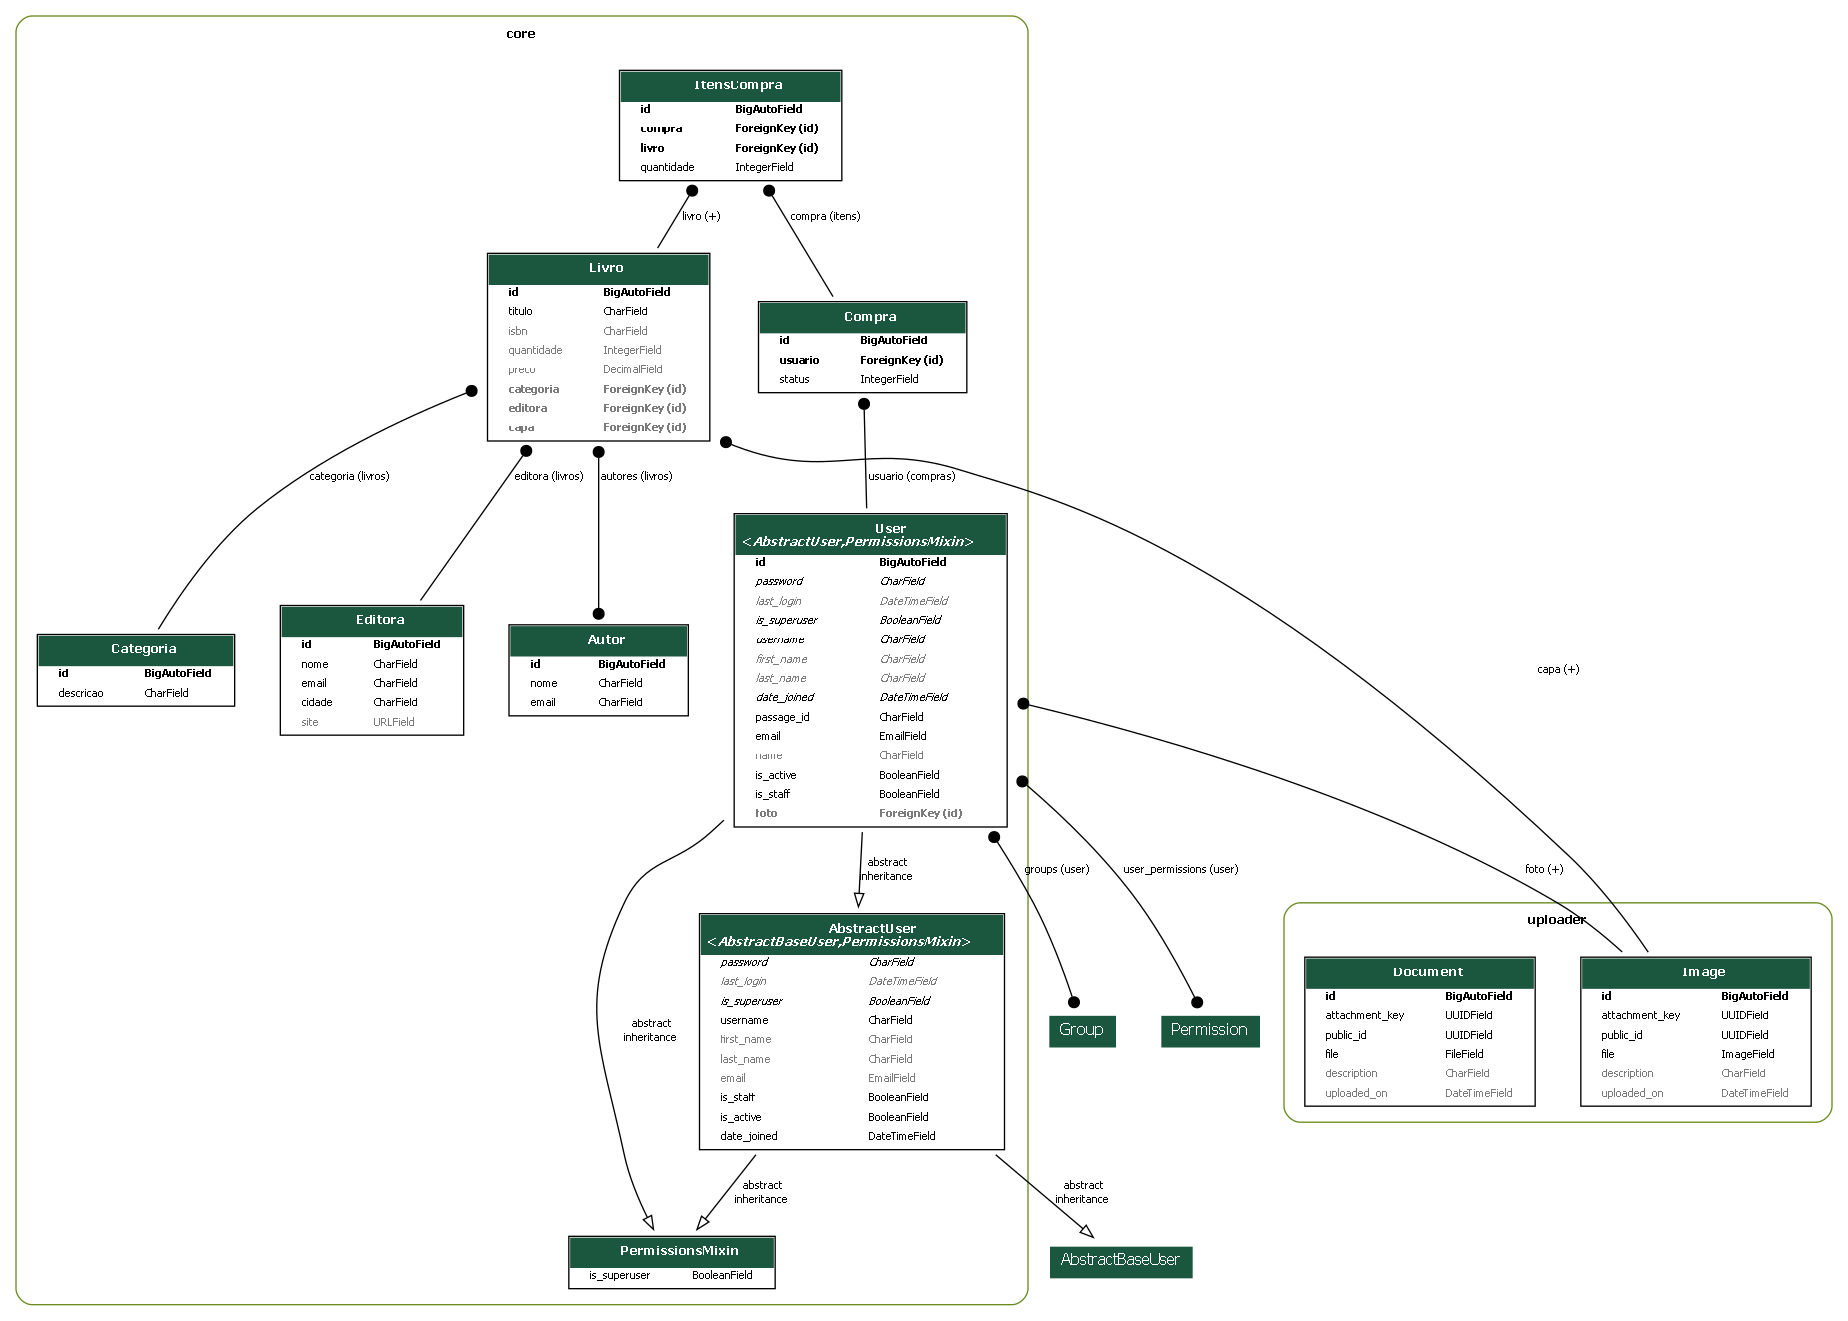
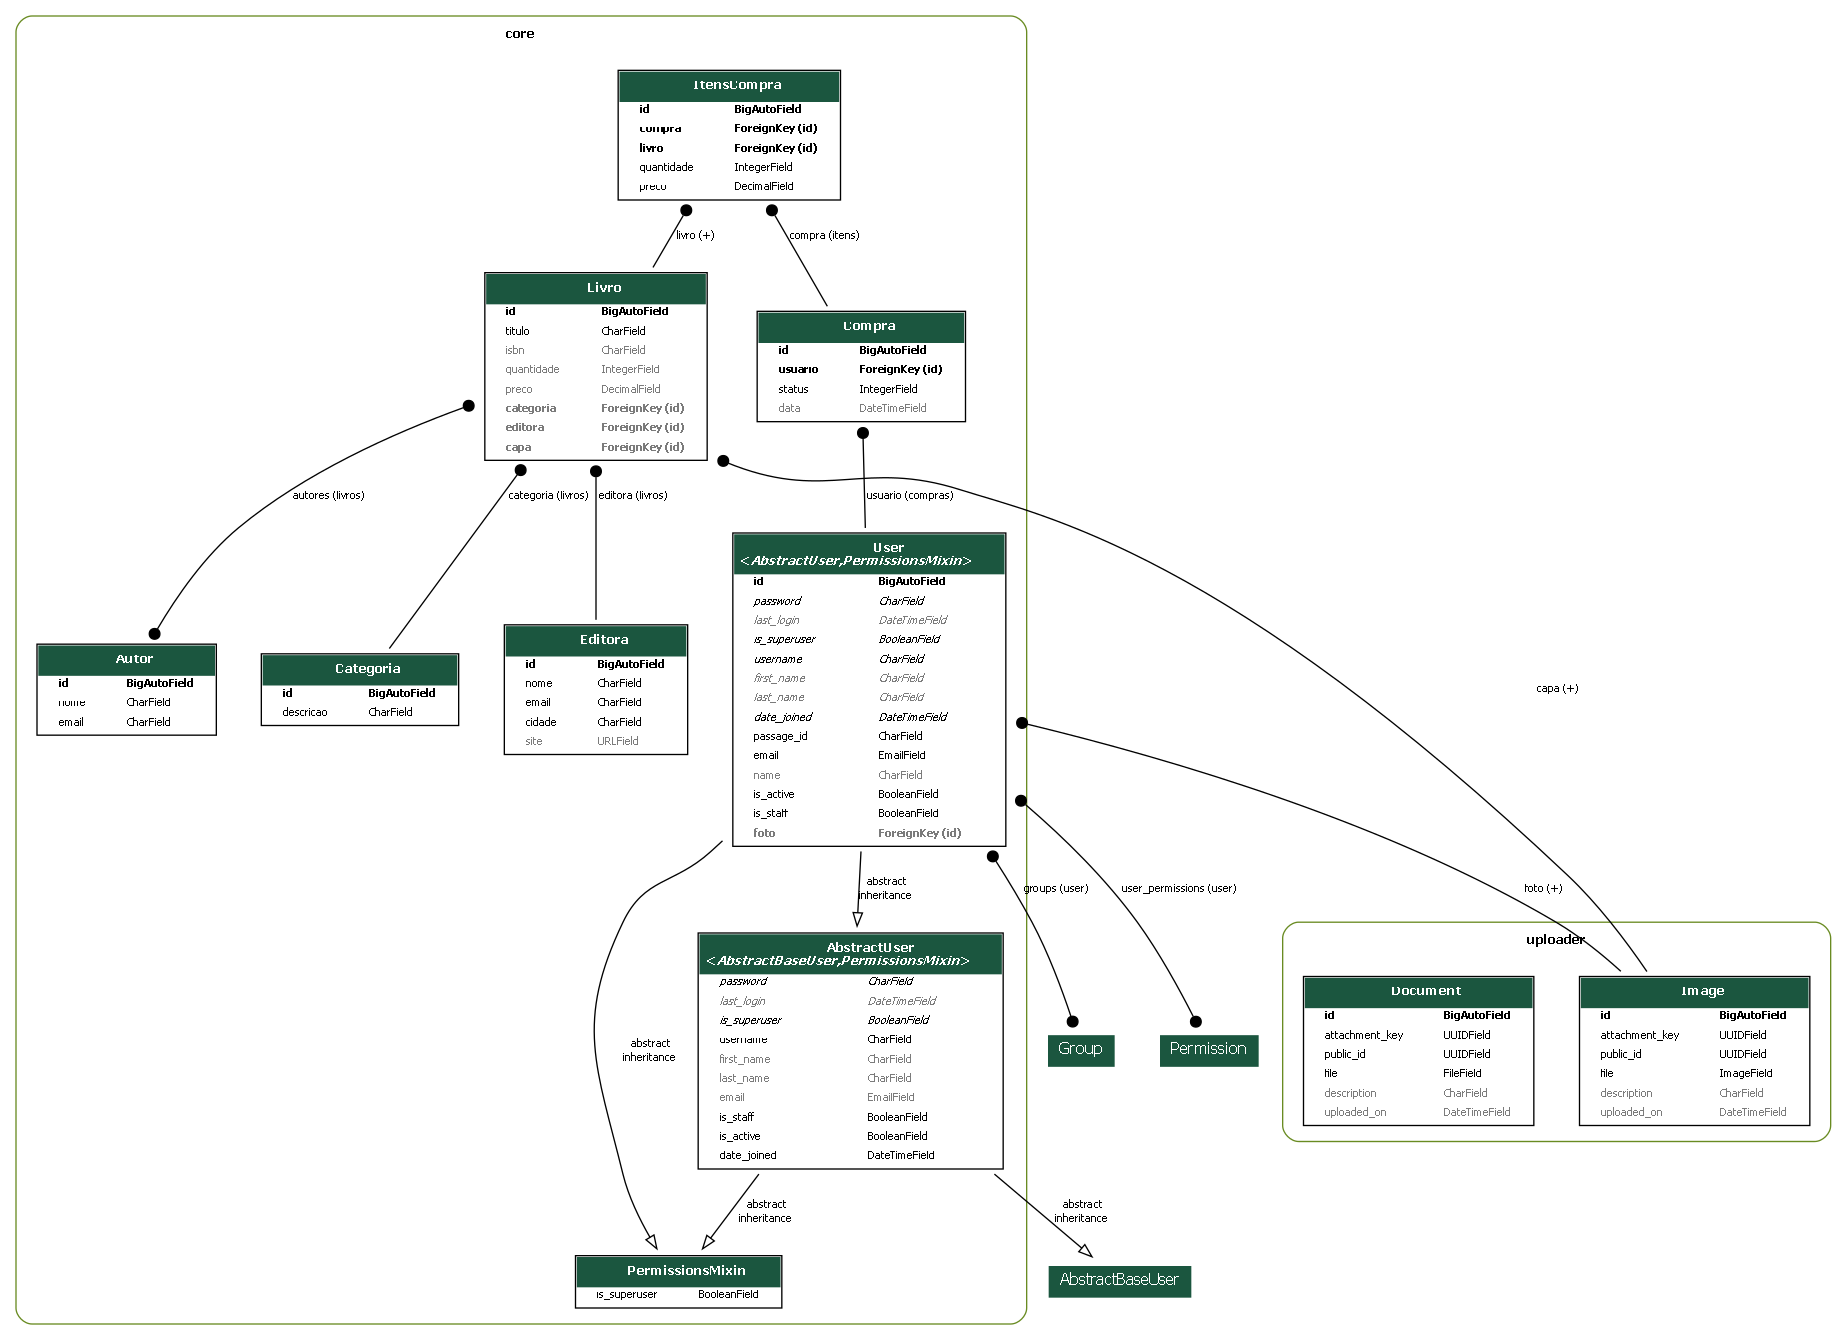
Acrescentando a data da compra

diff --git a/core/serializers/compra.py b/core/serializers/compra.py
@@ -3,6 +3,7 @@ from core.models import Compra, ItensCompra
 from rest_framework.serializers import (
     CharField,
     CurrentUserDefault, # novo
+    DateTimeField, # novo
     HiddenField, # novo
     ModelSerializer,
     SerializerMethodField,
@@ -43,12 +44,13 @@ class CompraListSerializer(ModelSerializer):
 class CompraSerializer(ModelSerializer):
     """Serializer para compras com itens detalhados."""
     status = CharField(source="get_status_display", read_only=True)  # Exibe o nome do status
+    data = DateTimeField(read_only=True) # novo campo
     usuario = CharField(source="usuario.email", read_only=True)  # Exibe o email do usuário
     itens = ItensCompraSerializer(many=True, read_only=True)  # Inclui os itens da compra
 
     class Meta:
         model = Compra
-        fields = ("id", "usuario", "status", "total", "itens")
+        fields = ("id", "usuario", "status", "total", "data", "itens") # modificado
 
     @property
     def total(self):

diff --git a/core/models/compra.py b/core/models/compra.py
@@ -1,4 +1,5 @@
 from django.db import models
+from django.utils.timezone import now  # Importando 'now' caso precise em outras partes do código
 from .livro import Livro
 from .user import User
 
@@ -10,7 +11,9 @@ class Compra(models.Model):
         ENTREGUE = 4, "Entregue"
 
     usuario = models.ForeignKey(User, on_delete=models.PROTECT, related_name="compras")
-    status = models.IntegerField(choices=StatusCompra.choices,  default=StatusCompra.CARRINHO)
+    status = models.IntegerField(choices=StatusCompra.choices, default=StatusCompra.CARRINHO)
+    data = models.DateTimeField(auto_now_add=True)  # Apenas 'auto_now_add=True', sem 'default'
+
     @property
     def total(self):
         return sum(item.preco * item.quantidade for item in self.itens.all())

diff --git a/core/migrations/0016_compra_data_itenscompra_preco.py b/core/migrations/0016_compra_data_itenscompra_preco.py
@@ -1,0 +1,25 @@
+# Generated by Django 5.1.3 on 2024-12-05 20:54
+
+import django.utils.timezone
+from django.db import migrations, models
+
+
+class Migration(migrations.Migration):
+
+    dependencies = [
+        ("core", "0015_itenscompra"),
+    ]
+
+    operations = [
+        migrations.AddField(
+            model_name="compra",
+            name="data",
+            field=models.DateTimeField(auto_now_add=True, default=django.utils.timezone.now),
+            preserve_default=False,
+        ),
+        migrations.AddField(
+            model_name="itenscompra",
+            name="preco",
+            field=models.DecimalField(decimal_places=2, default=0, max_digits=10),
+        ),
+    ]
